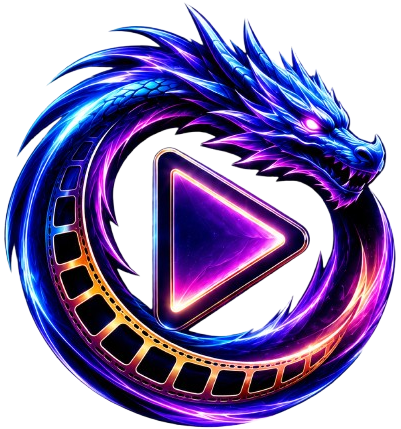
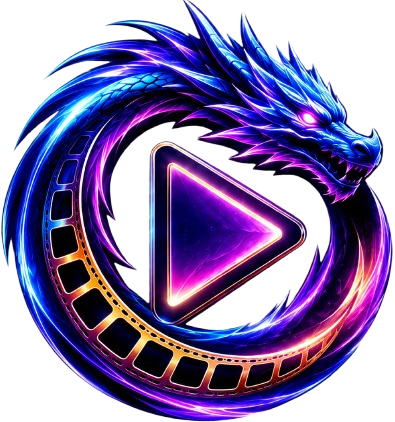
Fix Menu and Modal Movies

diff --git a/src/pages/admin/movies/moviesList/ModalMovies.jsx b/src/pages/admin/movies/moviesList/ModalMovies.jsx
@@ -10,6 +10,7 @@ import { CharacterContext } from '../../../../contexts/CharacterProvider';
 import { PlanContext } from '../../../../contexts/PlanProvider';
 import { COUNTRIES } from '../../../../utils/Contants';
 import { CategoryTypeContext } from '../../../../contexts/CategoryTypeProvider';
+import Logo4 from "../../../../assets/Logo4.png";
 
 const Transition = React.forwardRef((props, ref) => <Slide direction="up" ref={ref} {...props} />);
 const VisuallyHiddenInput = styled('input')({ clip: 'rect(0 0 0 0)', height: 1, position: 'absolute', width: 1 });
@@ -29,6 +30,7 @@ export default function ModalMovies({ open, handleClose, movie, onChangeInput, a
     const plansList = useContext(PlanContext);
     const [type, setType] = useState("");
 
+    const posterPreview = movie.imgFile ? movie.imgUrl : movie.id ? movie.imgUrl || Logo4 : Logo4;
 
     const handleClickOpenChoose = (type) => {
         if (type === "actors") setDataChoose(actors);
@@ -48,7 +50,7 @@ export default function ModalMovies({ open, handleClose, movie, onChangeInput, a
         const file = e.target.files[0];
         if (file) {
             const reader = new FileReader();
-            reader.onload = () => setMovie({ ...movie, imgUrl: reader.result, imgFile: file });
+            reader.onload = () => setMovie(pre => ({ ...pre, imgUrl: reader.result, imgFile: file }));
             reader.readAsDataURL(file);
         }
     };
@@ -127,6 +129,7 @@ export default function ModalMovies({ open, handleClose, movie, onChangeInput, a
                 return [];
         }
     };
+
     return (
         <Dialog
             open={open}
@@ -224,7 +227,6 @@ export default function ModalMovies({ open, handleClose, movie, onChangeInput, a
                                 helperText={error.planID}
                                 SelectProps={{ MenuProps: menuProps }}
                             >
-
                                 {plansList?.map(plan => (
                                     <MenuItem key={plan.id} value={plan.id}>
                                         {plan.name}
@@ -259,7 +261,6 @@ export default function ModalMovies({ open, handleClose, movie, onChangeInput, a
                                 helperText={error.author}
                                 SelectProps={{ MenuProps: menuProps }}
                             >
-
                                 {authorsList?.map(author => (
                                     <MenuItem key={author.id} value={author.id}>
                                         {author.name}
@@ -337,7 +338,7 @@ export default function ModalMovies({ open, handleClose, movie, onChangeInput, a
                     <div className="bg-slate-800/20 p-5 rounded-2xl border border-white/5 flex flex-col items-center">
                         <p className="text-pink-400 text-xs font-bold uppercase tracking-widest text-center mb-4">Movie Poster</p>
                         <div className="relative w-48 aspect-2/3 rounded-2xl overflow-hidden border-2 border-dashed border-slate-600 group bg-slate-900/50 flex items-center justify-center transition-all hover:border-pink-400">
-                            <img src={movie.imgUrl} className="w-full h-full object-cover group-hover:opacity-20 transition-all" alt="Poster" />
+                            <img src={posterPreview} className="w-full h-full object-cover group-hover:opacity-20 transition-all" alt="Poster" />
                             <label className="absolute inset-0 flex flex-col items-center justify-center cursor-pointer opacity-0 group-hover:opacity-100 transition-all">
                                 <FaCloudUploadAlt className="text-5xl text-pink-400 mb-2" />
                                 <span className="text-white text-sm font-bold">Upload</span>

diff --git a/src/App.jsx b/src/App.jsx
@@ -11,9 +11,9 @@ function App() {
 
   return (
     <>
-       {/* <NoelBackground />
-       <HomeAdmin /> */}
-       <LayoutClient />
+       <NoelBackground />
+       <HomeAdmin />
+       {/* <LayoutClient /> */}
     </>
     
   

diff --git a/src/components/admin/MenuAdmin.jsx b/src/components/admin/MenuAdmin.jsx
@@ -3,7 +3,7 @@ import { useLocation, Link } from 'react-router-dom';
 import { AiOutlineMenuFold, AiOutlineMenuUnfold } from 'react-icons/ai';
 import { FaCaretSquareDown, FaCaretSquareUp } from 'react-icons/fa';
 import { MdDashboard } from 'react-icons/md';
-import Logo from "../../assets/Logo.png";
+import Logo3 from "../../assets/Logo3.png";
 import { LISTMENU } from '../../utils/Contants';
 
 function MenuAdmin() {
@@ -28,11 +28,11 @@ function MenuAdmin() {
             <div className="flex justify-center items-center relative h-8 mb-4 mt-2 shrink-0">
                 {!Menu ? (
                     <div className='flex justify-center items-center gap-1 whitespace-nowrap overflow-hidden transition-all duration-300 w-full'>
-                        <h1 className='text-cyan-400 text-2xl font-extrabold tracking-widest drop-shadow-[0_0_8px_rgba(34,211,238,0.6)]'>FIMO</h1>
+                        <h1 className='text-cyan-400 text-2xl font-extrabold tracking-widest drop-shadow-[0_0_8px_rgba(34,211,238,0.6)]'>MFilm</h1>
                         <h1 className='text-pink-500 text-2xl font-extrabold tracking-widest drop-shadow-[0_0_8px_rgba(236,72,153,0.6)]'>Admin</h1>
                     </div>
                 ) : (
-                    <img src={Logo} alt="Logo" className="w-full h-10 object-contain transition-all duration-300 px-1" />
+                    <img src={Logo3} alt="Logo" className="w-full h-10 object-contain transition-all duration-300 px-1" />
                 )}
 
                 <button 